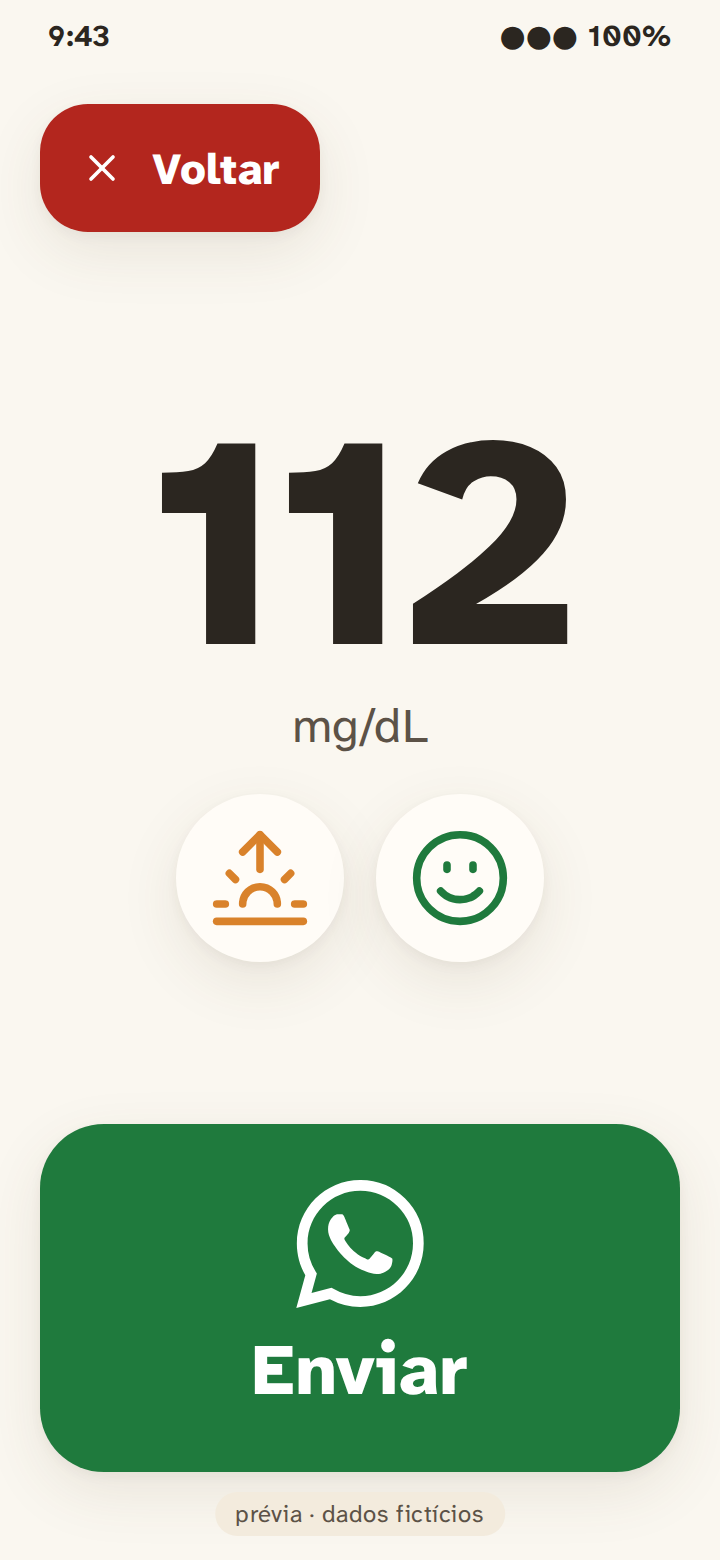
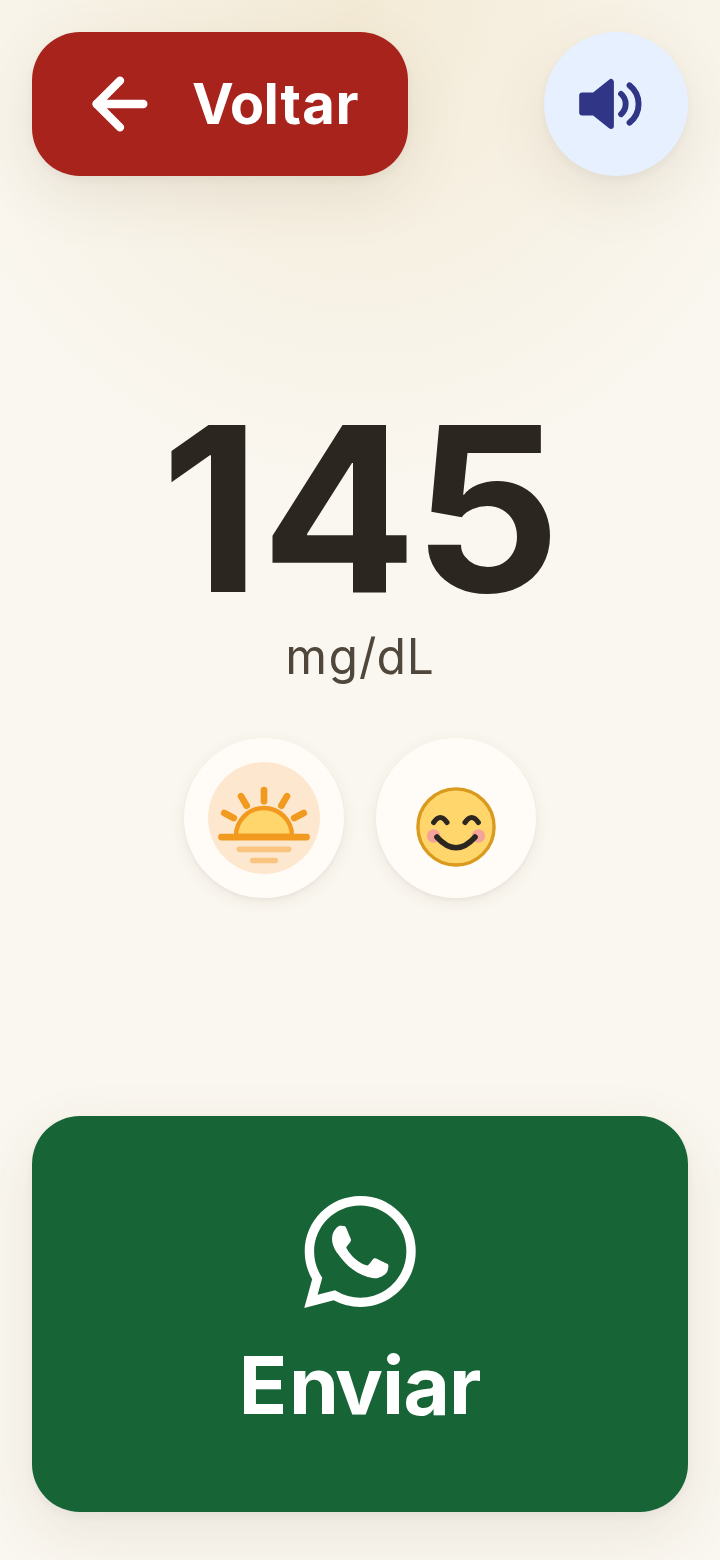
feat: telas reais do app nos mockups
Capturas do app em produção com dados fictícios; textos alternativos alinhados às telas.

diff --git a/index.html b/index.html
@@ -99,7 +99,7 @@
         <div class="brilho" aria-hidden="true"></div>
         <figure class="celular celular--g entra" style="--atraso:350ms">
           <img src="img/telas/tela-inicio.png" width="720" height="1560" fetchpriority="high"
-               alt="Tela inicial do Cuidar: um botão azul gigante escrito Medir, com o desenho de uma gota, e abaixo o botão Minhas medidas.">
+               alt="Tela inicial do Cuidar: um botão azul gigante escrito Medir, com o desenho de uma gota de sangue, e abaixo o botão Caderno.">
         </figure>
         <div class="flutua flutua--zap entra" style="--atraso:1100ms" aria-hidden="true">
           <span class="flutua__icone"><svg class="i i--cheio"><use href="#i-whatsapp"/></svg></span>
@@ -171,12 +171,12 @@
             <p>Um botão gigante: <b>Medir</b>. Nada mais disputa a atenção.</p>
           </li>
           <li class="passo" data-reveal style="--atraso-r:100ms">
-            <figure class="celular"><img src="img/telas/tela-camera.png" width="720" height="1560" loading="lazy" alt="Câmera aberta com uma moldura de mira sobre o visor do glicosímetro e um botão redondo para tirar a foto."></figure>
+            <figure class="celular"><img src="img/telas/tela-camera.png" width="720" height="1560" loading="lazy" alt="Câmera aberta com uma moldura branca sobre o visor do glicosímetro, que mostra 145, e um botão azul gigante Foto."></figure>
             <h3><span class="passo__n">2</span>Fotografa o visor</h3>
             <p>A câmera já abre pronta. O número é lido no próprio celular, de graça.</p>
           </li>
           <li class="passo" data-reveal style="--atraso-r:200ms">
-            <figure class="celular"><img src="img/telas/tela-valor.png" width="720" height="1560" loading="lazy" alt="O número 112 em tamanho gigante, com um botão verde Está certo e um botão Corrigir."></figure>
+            <figure class="celular"><img src="img/telas/tela-valor.png" width="720" height="1560" loading="lazy" alt="O número 145 lido da foto em tamanho gigante, com um botão verde Está certo e um botão vermelho Corrigir."></figure>
             <h3><span class="passo__n">3</span>Confirma o número</h3>
             <p>O número aparece gigante. Verde se está certo; se não, corrige num teclado grande.</p>
           </li>
@@ -186,7 +186,7 @@
             <p>Sol nascendo, prato, lua ou estrela. Se quiser, um rostinho diz como ela está.</p>
           </li>
           <li class="passo" data-reveal style="--atraso-r:400ms">
-            <figure class="celular"><img src="img/telas/tela-enviar.png" width="720" height="1560" loading="lazy" alt="Resumo com o número 112, as figuras de jejum e de rosto sorridente e um botão verde gigante Enviar com o símbolo do WhatsApp."></figure>
+            <figure class="celular"><img src="img/telas/tela-enviar.png" width="720" height="1560" loading="lazy" alt="Resumo com o número 145, as figuras de jejum e de rosto sorridente e um botão verde gigante Enviar com o símbolo do WhatsApp."></figure>
             <h3><span class="passo__n">5</span>Envia no WhatsApp</h3>
             <p>Um toque no verde abre o WhatsApp com a mensagem pronta para a família.</p>
           </li>
@@ -246,7 +246,7 @@
 
         <div class="dupla__item" data-reveal style="--atraso-r:150ms">
           <div class="relatorio">
-            <figure class="celular celular--m"><img src="img/telas/tela-historico.png" width="720" height="1560" loading="lazy" alt="Histórico Minhas medidas: lista de valores com marcação verde para normal, amarela para atenção e vermelha para fora da faixa, e o botão Relatório para a médica."></figure>
+            <figure class="celular celular--m"><img src="img/telas/tela-historico.png" width="720" height="1560" loading="lazy" alt="Histórico: lista de valores com marcação verde e símbolo de certo para normal, amarela com triângulo para atenção, e o botão Para a médica, que gera o relatório."></figure>
             <div class="pdf" role="img" aria-label="Ilustração do relatório em PDF com dados fictícios: período de 1 a 26 de outubro, gráfico das medições com a faixa verde de 70 a 180 e tabela com data, momento e valor.">
               <div class="pdf__topo"><b>Relatório de glicemia</b><small>01/10 a 26/10 · dados fictícios</small></div>
               <svg class="pdf__grafico" viewBox="0 0 280 110" aria-hidden="true">
